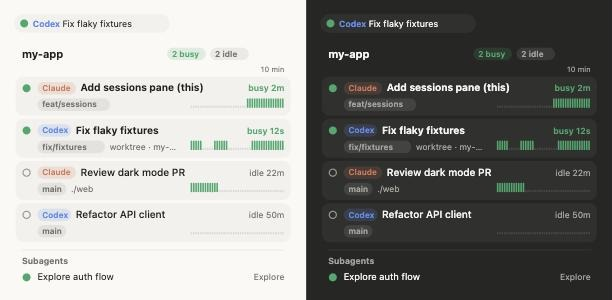
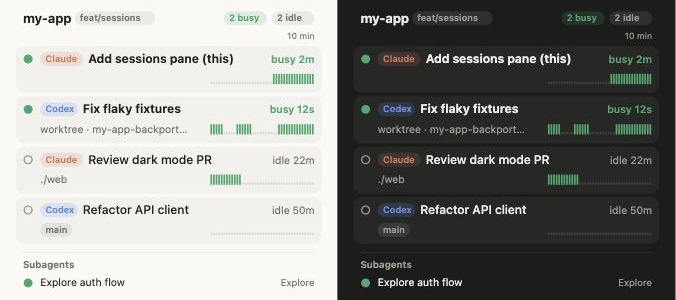
fix: transparent, full-width session cards
Draws the SVG as an image so its background is transparent in the desktop
app (the interactive frame painted white under dark-mode text), scales the
pane drawing to the slot width with larger type, and shows a session's
branch only when it differs from this session's.

Refs #1

diff --git a/hooks/draw.ts b/hooks/draw.ts
@@ -6,7 +6,7 @@ export const HISTORY_BUCKETS = 40
 export const BUCKET_MS = 15_000
 
 const W = 360
-const ROW_H = 54
+const ROW_H = 58
 const SUB_H = 22
 const PAD = 12
 const STRIP_W = HISTORY_BUCKETS * 3
@@ -21,8 +21,8 @@ const STYLE = `
   .card { fill: #1f1f1e; opacity: .035; } .line { stroke: #1f1f1e; opacity: .08; }
   .pill { fill: #1f1f1e; opacity: .07; }
   @media (prefers-color-scheme: dark) {
-    .fg { fill: #f5f4ef; } .mut { fill: #a6a49c; } .faint { fill: #a6a49c; }
-    .card { fill: #ffffff; opacity: .045; } .line { stroke: #ffffff; } .pill { fill: #ffffff; opacity: .09; }
+    .fg { fill: #ecebe6; } .mut { fill: #9c9a92; } .faint { fill: #9c9a92; opacity: .22; }
+    .card { fill: #ffffff; opacity: .05; } .line { stroke: #ffffff; } .pill { fill: #ffffff; opacity: .09; }
   }
   text { font-family: ui-sans-serif, -apple-system, system-ui, sans-serif; }
   .mono { font-family: ui-monospace, SFMono-Regular, Menlo, monospace; }
@@ -78,26 +78,26 @@ const pill = (x: number, y: number, text: string, color?: string) => {
   return { w, svg: `${bg}<text x="${x + 6}" y="${y + 11.5}" font-size="10.5" font-weight="600" ${fg}>${esc(text)}</text>` }
 }
 
-const row = (p: Peer, y: number, root: string, now: number) => {
+const row = (p: Peer, y: number, root: string, now: number, selfBranch: string | null) => {
   const isBusy = p.status === 'busy'
   const agent = AGENT[p.agent]
   const right = W - PAD
   const badge = pill(PAD + 20, y + 9, agent.label, agent.color)
   const nameX = PAD + 20 + badge.w + 6
   const state = `${p.status} ${ago(now - p.since)}`
-  const stateW = state.length * 6.2
+  const stateW = state.length * 6.8
   const name = `${p.name}${p.isSelf ? ' (this)' : ''}`
 
   const meta: string[] = []
   let mx = PAD + 20
-  if (p.branch) {
-    const b = pill(mx, y + 30, fit(p.branch, 120, 10.5))
+  if (p.branch && p.branch !== selfBranch) {
+    const b = pill(mx, y + 32, fit(p.branch, 120, 10.5))
     meta.push(b.svg)
     mx += b.w + 6
   }
   const where = [p.isWorktree ? 'worktree' : '', relativeCwd(p.cwd, root)].filter(Boolean).join(' · ')
   if (where) {
-    meta.push(`<text x="${mx}" y="${y + 41.5}" font-size="11" class="mut">${esc(fit(where, right - STRIP_W - 10 - mx, 11))}</text>`)
+    meta.push(`<text x="${mx}" y="${y + 44}" font-size="12" class="mut">${esc(fit(where, right - STRIP_W - 10 - mx, 12))}</text>`)
   }
 
   return `<g>
@@ -105,9 +105,9 @@ const row = (p: Peer, y: number, root: string, now: number) => {
     <rect x="4" y="${y + 2}" width="${W - 8}" height="${ROW_H - 4}" rx="10" class="card"/>
     ${dot(PAD + 6, y + 17, isBusy)}
     ${badge.svg}
-    <text x="${nameX}" y="${y + 21}" font-size="13" font-weight="${isBusy ? 650 : 500}" class="fg">${esc(fit(name, right - stateW - 10 - nameX, 13))}</text>
-    <text x="${right}" y="${y + 21}" font-size="11" text-anchor="end" ${isBusy ? `fill="${BUSY}" font-weight="600"` : 'class="mut"'}>${state}</text>
-    ${strip(right - STRIP_W, y + 30, p.history)}
+    <text x="${nameX}" y="${y + 21.5}" font-size="14" font-weight="${isBusy ? 650 : 500}" class="fg">${esc(fit(name, right - stateW - 10 - nameX, 14))}</text>
+    <text x="${right}" y="${y + 21.5}" font-size="12" text-anchor="end" ${isBusy ? `fill="${BUSY}" font-weight="600"` : 'class="mut"'}>${state}</text>
+    ${strip(right - STRIP_W, y + 34, p.history)}
     ${meta.join('')}
   </g>`
 }
@@ -119,15 +119,19 @@ export function paneSvg(snap: Snapshot) {
   const parts: string[] = []
   let y = 0
 
-  parts.push(`<text x="${PAD}" y="18" font-size="14" font-weight="650" class="fg">${esc(fit(repo, 200, 14))}</text>`)
-  const b = pill(W - PAD - 150, 5, `${busy} busy`, BUSY)
-  const i = pill(W - PAD - 150 + b.w + 6, 5, `${idle} idle`)
-  parts.push(b.svg, i.svg)
-  parts.push(`<text x="${W - PAD}" y="${36}" font-size="9.5" text-anchor="end" class="mut">10 min</text>`)
-  y = 40
+  const selfBranch = snap.peers.find(p => p.isSelf)?.branch ?? null
+  const repoText = fit(repo, 150, 15)
+  parts.push(`<text x="${PAD}" y="19" font-size="15" font-weight="650" class="fg">${esc(repoText)}</text>`)
+  if (selfBranch) parts.push(pill(PAD + repoText.length * 8.6 + 8, 6, fit(selfBranch, 90, 10.5)).svg)
+  const i = pill(0, 0, `${idle} idle`)
+  const b = pill(0, 0, `${busy} busy`, BUSY)
+  const bx = W - PAD - i.w - 6 - b.w
+  parts.push(pill(bx, 6, `${busy} busy`, BUSY).svg, pill(bx + b.w + 6, 6, `${idle} idle`).svg)
+  parts.push(`<text x="${W - PAD}" y="${38}" font-size="10" text-anchor="end" class="mut">10 min</text>`)
+  y = 44
 
   for (const p of snap.peers) {
-    parts.push(row(p, y, snap.root, snap.checkedAt))
+    parts.push(row(p, y, snap.root, snap.checkedAt, selfBranch))
     y += ROW_H
   }
 
@@ -150,7 +154,7 @@ export function paneSvg(snap: Snapshot) {
   return {
     width: W,
     height: h,
-    source: `<svg xmlns="http://www.w3.org/2000/svg" viewBox="0 0 ${W} ${h}" width="${W}" height="${h}"><style>${STYLE}</style>${parts.join('')}</svg>`,
+    source: `<svg xmlns="http://www.w3.org/2000/svg" viewBox="0 0 ${W} ${h}"><style>${STYLE}</style>${parts.join('')}</svg>`,
   }
 }
 

diff --git a/hooks/register.tsx b/hooks/register.tsx
@@ -220,9 +220,6 @@ export const register: Register = on => {
       return (
         <Svg
           source={pane.source}
-          width={pane.width}
-          height={pane.height}
-          isInteractive
           alt={`${snap.peers.length} sessions, ${busy} busy`}
         />
       )
@@ -290,7 +287,6 @@ export const register: Register = on => {
           source={band.source}
           width={band.width}
           height={band.height}
-          isInteractive
           alt={`${busy.length} other sessions busy in this repo`}
         />
       )
